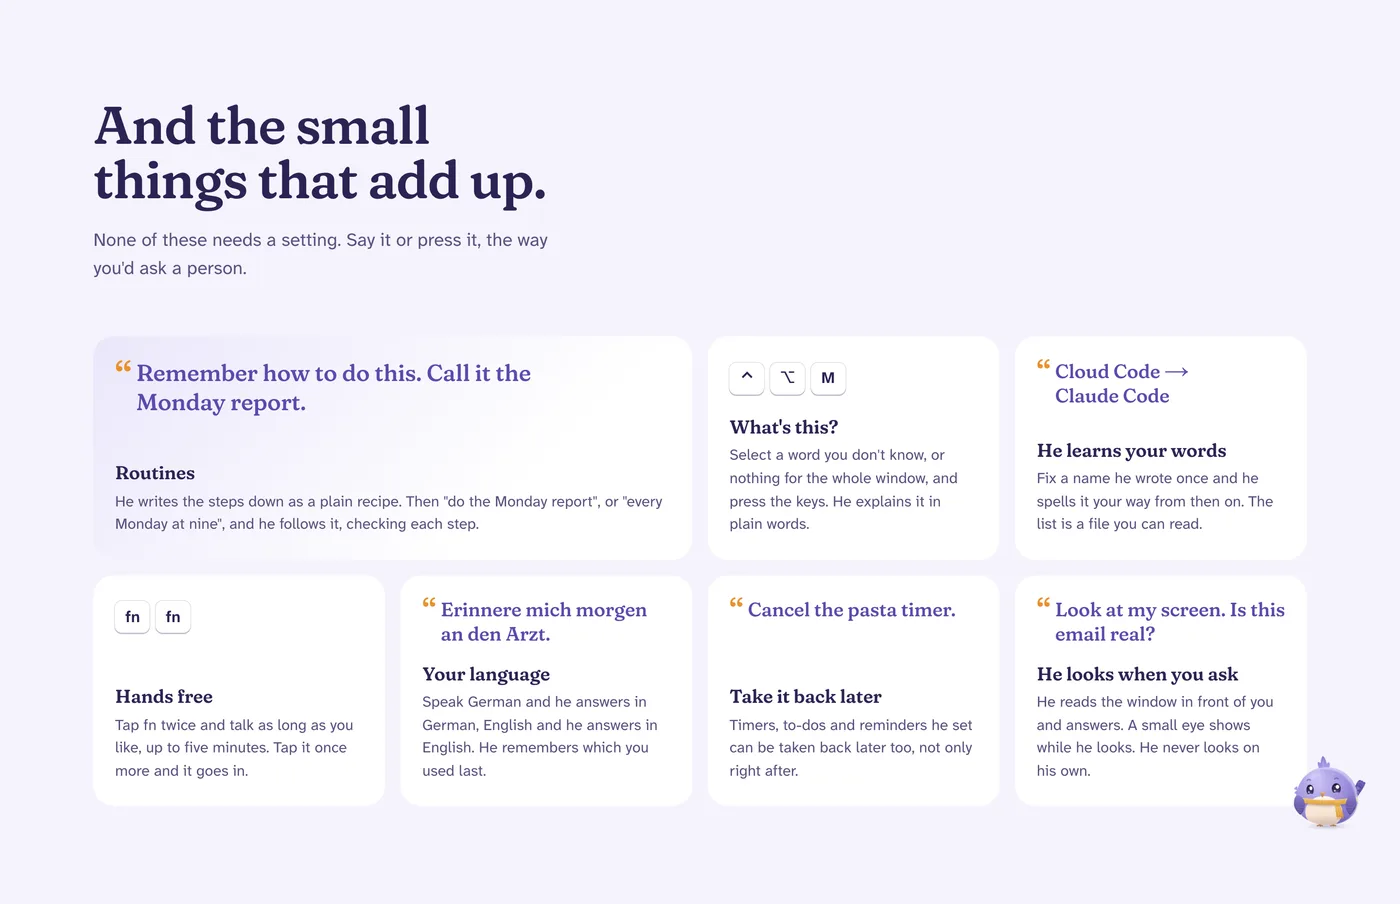
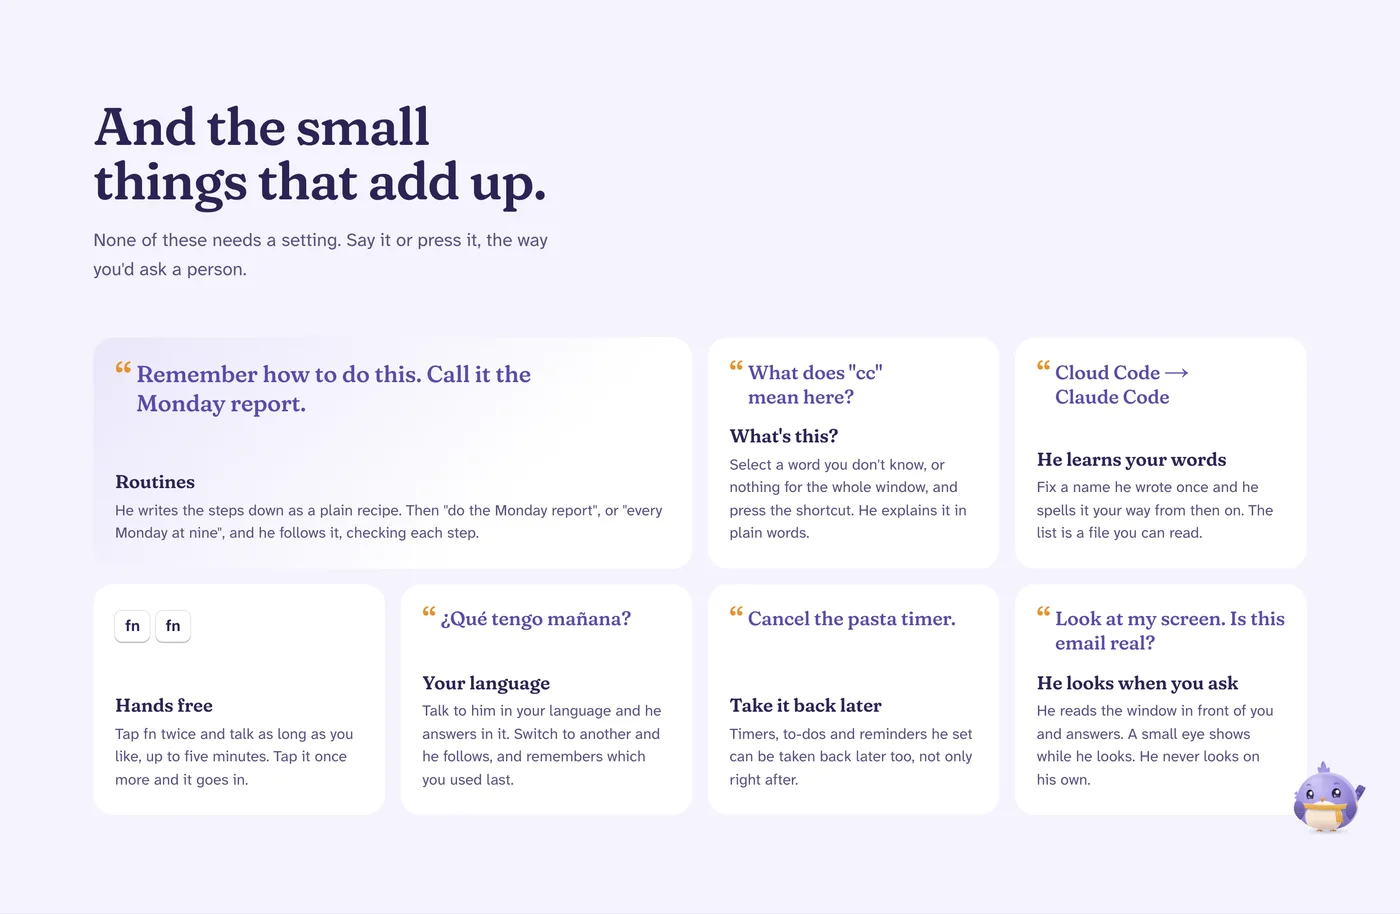
Homepage speaks about your computer and your language, not the Mac and two languages

diff --git a/site/src/scripts/milo.ts b/site/src/scripts/milo.ts
@@ -227,7 +227,7 @@ export function watch(el: HTMLElement | null) {
 const hello = {
   hero: ['Hello.', "I'm Milo. I live down in the corner.", "Scroll down, I'll show you."],
   corner: ['Still here.', "I'm watching. Quietly.", 'Press esc and I stop. Try it in the spreadsheet.', 'This page has no cookies. I checked.'],
-  final: ["I'll be here.", 'Room for one more.', 'See you on your Mac.'],
+  final: ["I'll be here.", 'Room for one more.', 'See you on your computer.'],
 } as Record<string, string[]>;
 const helloCount: Record<string, number> = {};
 hit.addEventListener('click', () => {

diff --git a/README.md b/README.md
@@ -47,7 +47,7 @@ Click into a reply, hold right <kbd>⌥</kbd> and say *"answer Anna, Sunday work
 
 Whisper large-v3-turbo transcribes on the Apple GPU while you speak, so dictation is in your app **about half a second** after you let go (a second at most after a long one). His voice is Kyutai's **Pocket TTS** on the CPU, about **7x faster than real time**, sentence by sentence, in English and German. Dictation, his voice and reminders keep working offline.
 
-<img src="assets/readme/local.webp" alt="A diagram of Milo's voice path: you speak, he hears you, he remembers, he answers, all inside a frame labelled Your Mac; only 'thinking' sits outside, with just the words of the question.">
+<img src="assets/readme/local.webp" alt="A diagram of Milo's voice path: you speak, he hears you, he remembers, he answers, all inside a frame labelled Your computer; only 'thinking' sits outside, with just the words of the question.">
 
 ### Small things take two seconds
 
